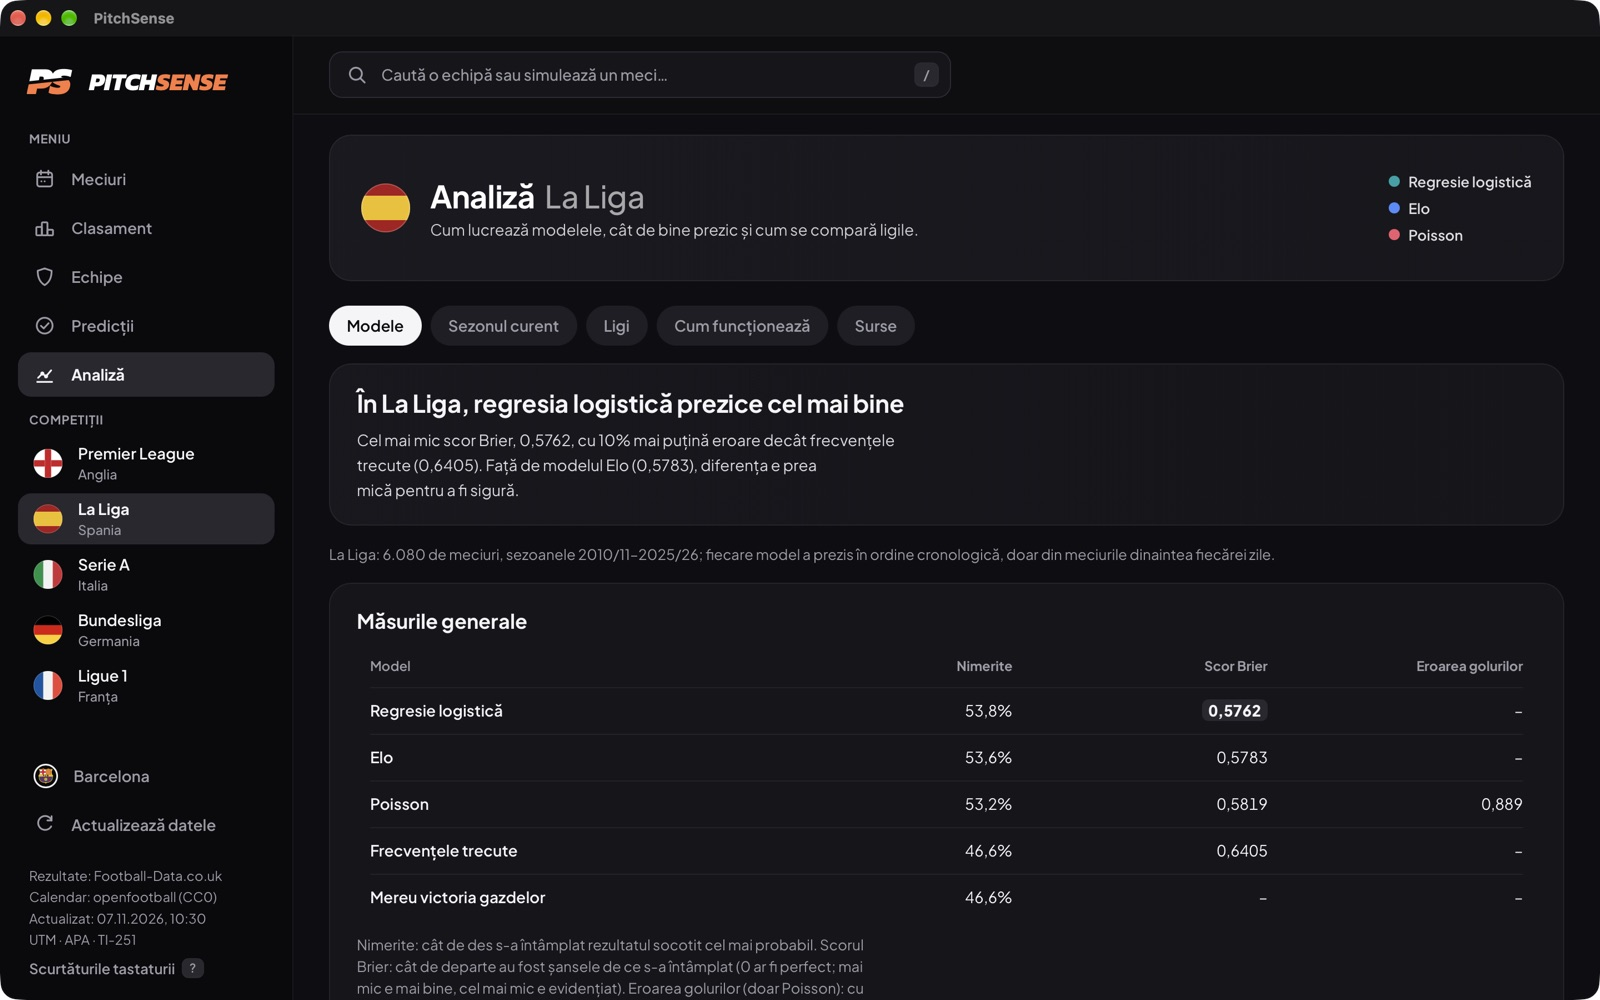
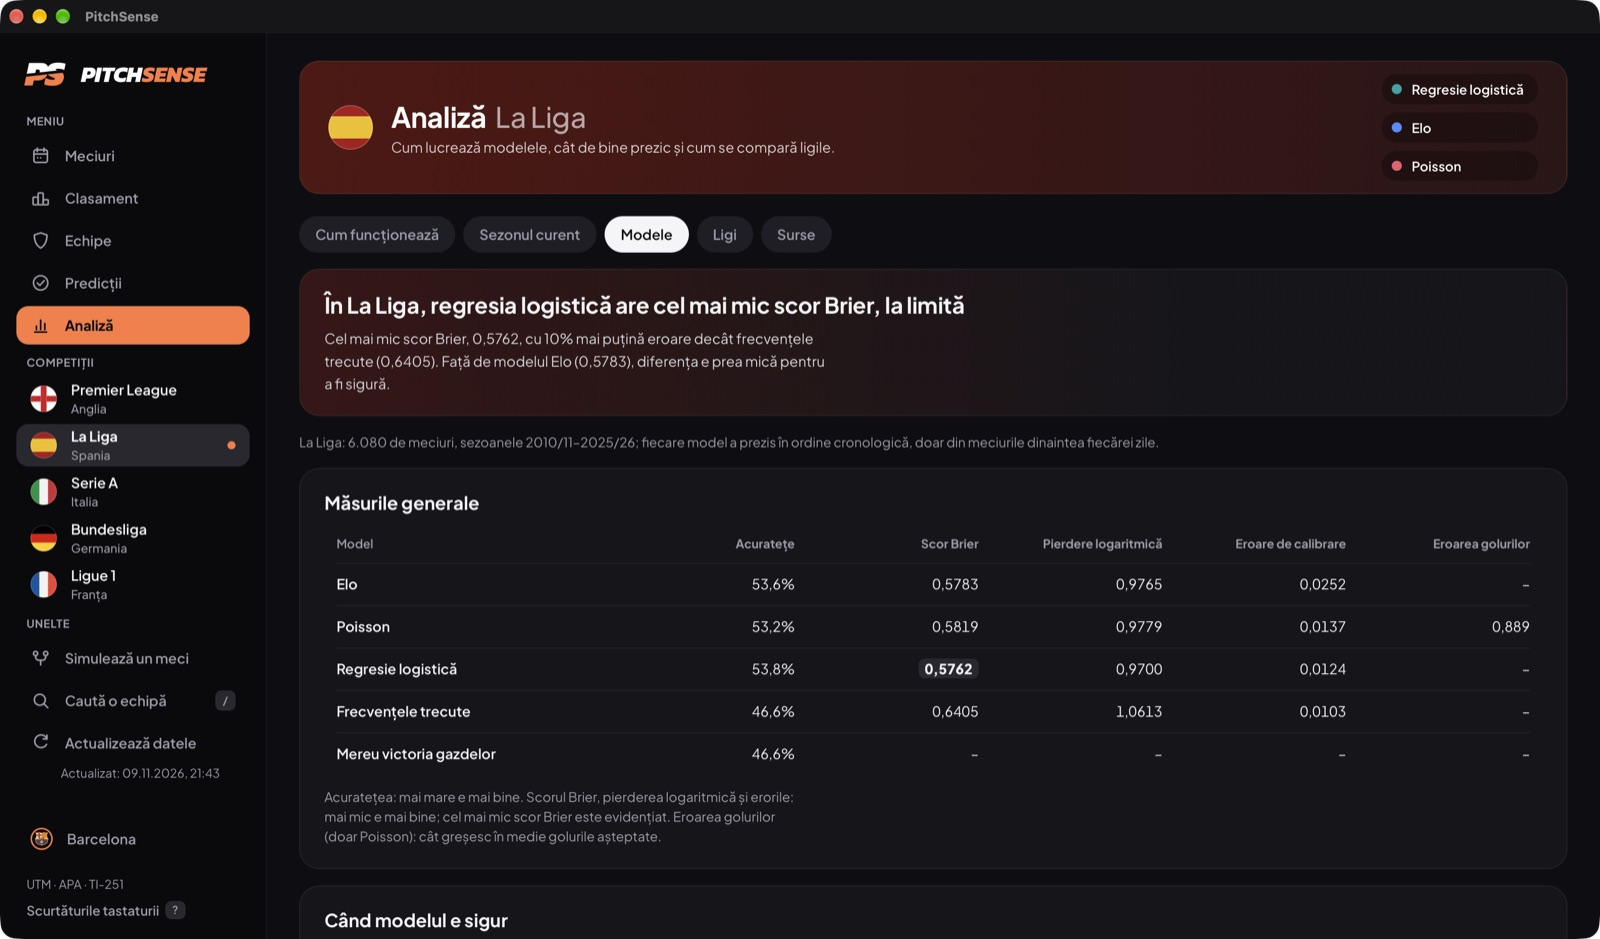
Release 0.9.0 recorded

diff --git a/docs/architecture.md b/docs/architecture.md
@@ -1305,6 +1305,14 @@ La cererea echipei, după ce a privit interfața: cardul „Ce spun modelele” 
 
 Propunerile ultimei analize, făcute fără o nouă rundă: pagina meciului e așezată pe două rânduri de câte două carduri de aceeași înălțime („Ce spun modelele” lângă „Cum vin echipele”, ale cărei rânduri se întind pe toată înălțimea; scorurile probabile Poisson lângă grila tuturor scorurilor), deci fără colțuri goale; raționamentul fiecărui model e scris mai mare și mai luminos; accentul ligii rămâne doar pentru alegere și selecție (vechimea datelor și valorile mai bune sunt neutre); titlul din Analiză → Modele spune „la limită” când diferența față de al doilea model nu e reală; calibrarea și matricea de confuzie stau în „Detalii statistice”; diferențele de acuratețe se scriu în puncte procentuale; cardul „Meciul zilei” arată nimerit/ratat și rezultatul real; proiecția explică de ce o echipă de sus poate fi proiectată mai jos; pagina meciului spune o singură dată până la ce zi sunt meciurile folosite. Echipa a acceptat faza pe 2026-11-09. După acceptare, la cererea echipei: carduri de aceeași înălțime peste tot (perechile din Analiză și Predicții; pe Echipe, lista meciurilor ia înălțimea coloanei de alături și se derulează în interior), iar raționamentul fiecărui model e scris în trei pași: ce măsoară modelul, cifrele acestui meci (cu cine avantajează fiecare) și rezultatul cel mai probabil, cu șansa lui.
 
+### 23.3. Versiunea 0.9.0
+
+După acceptarea fazei (2026-11-09), echipa a cerut versiunea 0.9.0, publicată pe GitHub (`v0.9.0`), cu capturi noi în README:
+
+- macOS: `.dmg` de 91 MB, cu baza de date reconstruită (100 de sezoane valide) și sezonul în desfășurare descărcat pe 2026-11-09; semnătura aplicației trece `codesign --verify --deep --strict`; autoverificarea serverului trece din `dist/` și din imaginea `.dmg`; trec cele 802 teste Python și cele 48 ale interfeței web.
+- Windows (GitHub Actions): trec aceleași 802 teste Python și 48 ale interfeței web; programul de instalare are 72 MB; autoverificarea trece în pachet și după instalare; serverul instalat are toate ligile gata la 5,4 s după pornire, iar cel pornit de fereastra instalată la 9,5 s după deschiderea ei. Ecranele nu au putut fi privite pe mașina de construire.
+- Capturile din `docs/images/` sunt făcute din aplicația construită pentru macOS, cu datele din 2026-11-09. O fereastră acoperită de alte ferestre nu își redesenează uneori meniul lateral (rămâne evidențiat ecranul anterior); capturile au fost făcute cu fereastra în față.
+
 ## 24. Setul de date și perioadele
 
 Sursa datelor este Football-Data.co.uk: cinci ligi (Premier League, La Liga, Serie A, Bundesliga, Ligue 1), fiecare cu 20 de sezoane încheiate, 2006/07–2025/26 (36.197 de meciuri). Perioadele sunt aceleași pentru toate ligile. Sezonul în desfășurare (2026/27) este descărcat separat și nu face parte din evaluare (secțiunea 15).

diff --git a/README.md b/README.md
@@ -10,7 +10,7 @@
 </p>
 
 <p align="center">
-  <a href="https://github.com/kirillthehighest/Pitch-Sense/releases/latest"><img alt="Versiunea 0.8.0" src="https://img.shields.io/badge/versiunea-0.8.0-E8622A"></a>
+  <a href="https://github.com/kirillthehighest/Pitch-Sense/releases/latest"><img alt="Versiunea 0.9.0" src="https://img.shields.io/badge/versiunea-0.9.0-E8622A"></a>
   <img alt="macOS și Windows" src="https://img.shields.io/badge/macOS%20%7C%20Windows-desktop-555">
   <img alt="Python 3.14" src="https://img.shields.io/badge/Python-3.14-3776AB?logo=python&logoColor=white">
   <img alt="React și Tauri" src="https://img.shields.io/badge/React%20%2B%20Tauri-interfa%C8%9Ba-24C8DB?logo=tauri&logoColor=white">
@@ -63,7 +63,7 @@ Când regresia logistică dă peste 65% unui rezultat, are dreptate în **76,0%*
 
 <table>
   <tr>
-    <td width="50%"><img src="docs/images/pagina-meci.jpg" alt="Pagina unui meci"><br><sub><b>Pagina unui meci:</b> pe ce mizează fiecare model și de ce</sub></td>
+    <td width="50%"><img src="docs/images/pagina-meci.jpg" alt="Pagina unui meci"><br><sub><b>Pagina unui meci:</b> ce spune fiecare model și de ce</sub></td>
     <td width="50%"><img src="docs/images/scoruri.jpg" alt="Scorurile probabile"><br><sub><b>Scorurile probabile</b> ale modelului Poisson, cu scorul final încercuit</sub></td>
   </tr>
   <tr>
